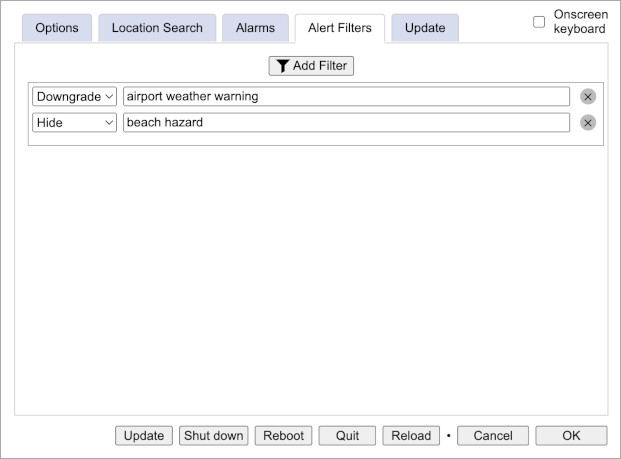
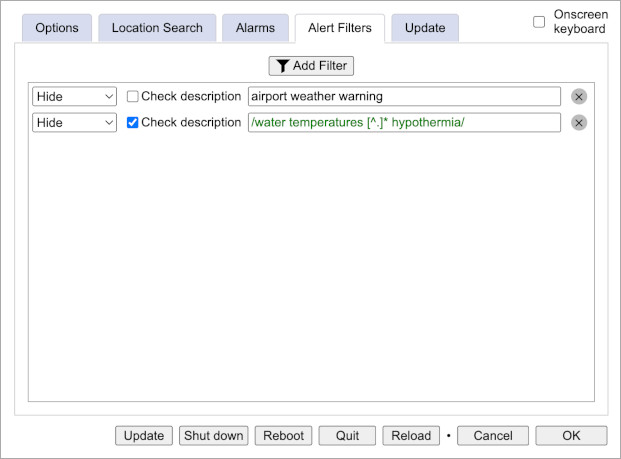
Update documentation for new weather alert filters. Tweak CSS. Delinting.

Changed region(s): [[0.1836, 0.183, 0.7649, 0.305], [0.8873, 0.183, 0.9791, 0.3355], [0.0612, 0.183, 0.153, 0.244]]

diff --git a/server/src/process-util.ts b/server/src/process-util.ts
@@ -37,14 +37,14 @@ const MAX_MARK_TIME_DELAY = 100;
 const NO_OP = (): void => {};
 
 export function stripFormatting(s: string): string {
-  return s?.replace(/\x1B\[[0-9;]*[A-Za-z]/g, '');
+  return s?.replace(/\x1B\[[\d;]*[A-Za-z]/g, '');
 }
 
 function errorish(s: string): boolean {
   s = stripFormatting(s);
 
   return /\b(failed|exception|invalid|operation not permitted|isn't a valid|Cannot resolve|must be specified|must implement|need to install|doesn't exist|are required|should be strings?)\b/i.test(s) ||
-         /[_0-9a-z](Error|Exception|Invalid)\b/.test(s) || /\[ERR_|code: 'ERR/.test(s);
+         /[_\da-z](Error|Exception|Invalid)\b/.test(s) || /\[ERR_|code: 'ERR/.test(s);
 }
 
 export function spawn(command: string, args: string[], options?: any): ChildProcess;

diff --git a/src/styles.css b/src/styles.css
@@ -1223,6 +1223,7 @@ ul.my-tabs > li.tab-active {
       top: 4px; }
   .alert-section #filter-list-wrapper {
     border: 1px solid #AAA;
+    box-sizing: border-box;
     display: flex;
     flex-direction: column;
     height: 100%;
@@ -1231,6 +1232,7 @@ ul.my-tabs > li.tab-active {
     padding: 4px;
     width: 100%; }
     .alert-section #filter-list-wrapper #filter-list {
+      box-sizing: border-box;
       display: flex;
       flex-direction: column;
       gap: 0.5em;
@@ -1254,7 +1256,7 @@ ul.my-tabs > li.tab-active {
       font-size: 11.2px;
       height: 18px;
       margin: 0 0.33em;
-      padding: 0.3em;
+      padding: 0.2em;
       position: relative;
       text-align: center;
       top: 0.2em;

diff --git a/src/styles.scss b/src/styles.scss
@@ -1590,6 +1590,7 @@ ul.my-tabs > li.tab-active {
 
   #filter-list-wrapper {
     border: 1px solid #AAA;
+    box-sizing: border-box;
     display: flex;
     flex-direction: column;
     height: 100%;
@@ -1599,6 +1600,7 @@ ul.my-tabs > li.tab-active {
     width: 100%;
 
     #filter-list {
+      box-sizing: border-box;
       display: flex;
       flex-direction: column;
       gap: 0.5em;
@@ -1630,7 +1632,7 @@ ul.my-tabs > li.tab-active {
       font-size: 11.2px;
       height: 18px;
       margin: 0 0.33em;
-      padding: 0.3em;
+      padding: 0.2em;
       position: relative;
       text-align: center;
       top: 0.2em;

diff --git a/build.ts b/build.ts
@@ -643,7 +643,7 @@ function portValidate(s: string): boolean {
 }
 
 const DOMAIN_PATTERN =
-  /^(((?!-))(xn--|_)?[-a-z0-9]{0,61}[a-z0-9]\.)*(xn--)?([a-z0-9][-a-z0-9]{0,60}|[-a-z0-9]{1,30}\.[a-z]{2,})(:\d{1,5})?$/i;
+  /^(((?!-))(xn--|_)?[-a-z\d]{0,61}[a-z\d]\.)*(xn--)?([a-z\d][-a-z\d]{0,60}|[-a-z\d]{1,30}\.[a-z]{2,})(:\d{1,5})?$/i;
 
 function ntpValidate(s: string): boolean {
   const domains = s.split(',').map(d => d.trim());

diff --git a/server/src/request-cache.ts b/server/src/request-cache.ts
@@ -17,7 +17,7 @@ const REQUEST_TIMEOUT = 55000; // 55 seconds
 const REQUEST_TIMEOUT_CHECK = 90; // seconds
 
 function filterUrl(url: string): string {
-  return url.replace(/(?<=\?key=)\w+(?=&)/, '...').replace(/(?<=\/forecast\/)[0-9A-F]+(?=\/)/i, '...')
+  return url.replace(/(?<=\?key=)\w+(?=&)/, '...').replace(/(?<=\/forecast\/)[\dA-F]+(?=\/)/i, '...')
     .replace(/(?<=&id=)\w+(?=[& ])/, '...');
 }
 

diff --git a/README.md b/README.md
@@ -143,6 +143,18 @@ When an alarm is coming up within the next 24 hours a green alarm indicator is d
 
 If you tap/click on this indicator, alarms will be temporarily disabled for the next 3, 6, 12, or 24 hours, increasing with each tap. (Tap once more in this sequence to re-enable alarms.) The time when alarms will resume again is displayed.
 
+### Weather Alert Filters
+
+It’s a really good idea to look out for water that might be very cold, even though high air temperatures might fool you into thinking the water might be warmer and safe for a swim.
+
+I get that. I don't need a scrolling banner warning me everytime this situation arises, however. I'm also not personally particularly concerned about airport weather warnings either.
+
+This is where weather alert filters come in. You can enter a word or phrase, either found in the title of an alert, or in the full description of the alert, and either have that alert hidden from the banner at the bottom of the screen, or have the alert downgraded to general information without an associated alert color.
+
+A color coded icon will be appended to the banner for each hidden alert. If you tap/click on the banner for the full-text display, all alerts will be shown.
+
+The filter text you enter is case-insensitive. Advanced users can enter *regular expressions* for complex matching by enclosing their filter text in slashes (with an optional `u` flag after the last slash for Unicode regular expression features).
+
 ### Wind speed
 
 <img src="https://shetline.com/readme/aw-clock/3.3.0/wind_barbs.png" width=820 height=55 alt="wind barbs">
@@ -298,7 +310,7 @@ To build and run this project you can use the following commands:
 To build the server along with the web client, use `npm run build`, possibly followed by `‑‑` and other options listed below:
 
 | &nbsp;           | &nbsp;                                                                                                                                                                                                            |
-| ---------------- | ----------------------------------------------------------------------------------------------------------------------------------------------------------------------------------------------------------------- |
+|------------------|-------------------------------------------------------------------------------------------------------------------------------------------------------------------------------------------------------------------|
 | `‑‑acu`          | Install support for wireless temperature/humidity sensors using a 433 MHz receiver module.                                                                                                                        |
 | `‑‑acu‑`         | Clears saved `‑‑acu` setting when not using interactive mode.                                                                                                                                                     |
 | `‑‑admin`        | Enables the user actions “Update”, “Shut down”, “Reboot”, and “Quit” in the Settings dialog.                                                                                                                      |
